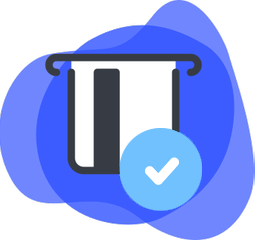
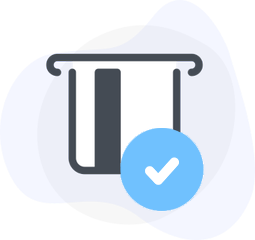
Move manual activation over to own component

diff --git a/src/Components/MainPage/MainNet.tsx b/src/Components/MainPage/MainNet.tsx
@@ -3,8 +3,44 @@ import iconChevronDown from '../../assets/chevron-down.png'
 import iconChevronLeft from '../../assets/chevron-left.png'
 import exchanges from '../../../exchanges.json'
 import imageAddAccount from '../../assets/image-add-account.png'
+import imageAddAccountDark from '../../assets/image-add-account-dark.png'
+import Manual from "./Activate/Manual";
+
+async function checkIfTangemCardCanBePrefilled(bearer: string, xAppToken: string) {
+    let canBePrefilled = false
+    let check = fetch(`${import.meta.env.VITE_XAPP_TANGEM_ENDPOINT}${xAppToken}`, {
+        method: "GET",
+        headers: {
+            'Authorization': `Bearer ${bearer}`,
+            'Content-Type': 'application/json',
+        }
+    }).then((response) => response.json()).then(r => {
+        // fetch(`/__log?${encodeURI(JSON.stringify(r, null, 4))}`)
+
+        if (r.eligible === true) {
+            canBePrefilled = true;
+        }
+    });
+
+    return canBePrefilled;
+}
 
 export default function MainNet(props: any) {
+
+    let imageActivateAccount = imageAddAccountDark
+    if (props.xAppStyle === 'light') {
+        imageActivateAccount = imageAddAccount
+    }
+
+    fetch(`/__log?${encodeURI(JSON.stringify(props.profile.accounttype, null, 4))}`)
+
+    if (props.profile.accounttype === 'TANGEM') {
+        (async () => {
+            if (await checkIfTangemCardCanBePrefilled(props.bearer, props.xAppToken)) {
+            } else {
+            }
+        })()
+    }
 
     const [activationType, setActivationType] = useState<string>('');
     const [exchange, setExchange] = useState<string>('');
@@ -24,50 +60,15 @@ export default function MainNet(props: any) {
         }
     }
 
-    useEffect(() => {
-        if (exchange !== '') {
-            props.toggleMarkdownURL(import.meta.env.VITE_GIT_MD_ENDPOINT + exchange)
-        }
-    }, [exchange])
+
 
     return (
-        <div className="w-full h-full flex flex-col items-center relative">
+        <div className="w-full h-full flex flex-col items-start relative">
             <div className="w-full flex flex-col">
-                <img src={imageAddAccount} className="w-[40%] mx-auto" />
-                <h1 className="text-center text-2xl">Activate your account</h1>
+                <img src={imageActivateAccount} className="w-[40%] mx-auto" />
+                <h1 className="text-center text-2xl text-primary">Activate your account</h1>
             </div>
-            {activationType === 'exchange' ?
-                <>
-                    <div className="flex items-start justify-start flex-col">
-                        <p className="text-primary font-bold m-0 text-left">Please select the exchange you want to use.</p>
-                        <p className="text-sm text-secondary m-0">After you choose an exchange, the instructions for this exchange will be shown.</p>
-                        <div className="w-full bg-white px-4 py-[16px] mt-2 border border-[rgb(--var(colorSilver))] rounded-xl flex justify-between items-center relative" onClick={() => { setShowDropdown(!showDropdown) }}>
-                            <span>Select an option</span>
-                            <img className="m-0" src={iconChevronDown} />
-                            <div className={`absolute w-full bg-white px-4 py-2 top-14 border border-[rgb(--var(colorSilver))] rounded-b-xl z-30 max-h-[36vh] overflow-y-scroll ${showDropdown ? 'left-0' : '-left-[110vw]'}`}>
-                                {exchanges.map((e: any, index: number) => {
-                                    return (
-                                        <div key={index} onClick={() => { setExchange(e.url) }} className="py-1">{e.name}</div>
-                                    )
-                                })}
-                            </div>
-                        </div>
-                    </div>
-                    <div className="fixed max-h-[195px] bg-theme-tint w-full bottom-0 border-t-[1px] border-t-[#EBECEE] flex items-center flex-col gap-4 pt-[22px] pb-[30px] pl-[20px] pr-[20px]">
-                        <button onClick={() => setActivationType('')} className="button button--blue text-black w-full py-[16px] rounded-[20px] flex items-center justify-center gap-2"><img className="m-0" src={iconChevronLeft} /><p className="m-0">Back</p></button>
-                    </div>
-                </>
-                :
-                <>
-                    <p className="m-0">An account ont the XRP Ledger automatically becomes activated when the first 10 XRP are sent to the account.</p>
-                    <p className="m-0">You can use any service (an exchange or the Xumm Onramp and Offramp xApp) that allows you to obtain XRP and withraw it to your account on the XRP Ledger.</p>
-                    <a href="" className="mt-2 text-[rgb(var(--colorBlue))] font-bold text-left">Read more about account activation</a>
-                    <div className="fixed max-h-[195px] bg-theme-tint w-full bottom-0 border-t-[1px] border-t-[#EBECEE] flex items-center flex-col gap-4 pt-[22px] pb-[30px] pl-[20px] pr-[20px]">
-                        <button onClick={() => openOnOffRampXApp()} className="button bg-[rgb(var(--colorBlue))] text-white w-full py-[16px] rounded-[20px] text-lg">Use On/Offramp</button>
-                        <button onClick={() => setActivationType('exchange')} className="w-full underline">How to use an exchange?</button>
-                    </div>
-                </>
-            }
-        </div >
+            <Manual xAppToken={props.xAppToken} toggleMarkdownURL={props.toggleMarkdownURL} />
+        </div>
     )
 };

diff --git a/src/App.tsx b/src/App.tsx
@@ -12,12 +12,22 @@ const queryClient = new QueryClient()
 const MainNet = lazy(() => import('./Components/MainPage/MainNet'));
 const DevNet = lazy(() => import('./Components/MainPage/DevNet'));
 const Loader = lazy(() => import('./Components/MainPage/Loader'));
-const TangemPreFilled = lazy(() => import('./Components/MainPage/TangemPreFilled'));
 
 const searchParams = new URL(window.location.href).searchParams;
 const xAppToken = searchParams.get('xAppToken') || '';
+const xAppStyle = searchParams.get('xAppStyle');
 
-// fetch(`/__log?${encodeURI(xAppToken)}`)
+const userXAppsRequest = await fetch('https://xumm.app/api/v1/app/xapp/shortlist?featured=1', {
+  headers: {
+    "Content-Type": "application/json",
+    "Authorization": `Bearer OTT:${xAppToken}`
+  }
+})
+const userXApps = await userXAppsRequest.json();
+// fetch(`/__log?${encodeURI(JSON.stringify('userXApps', null, 4))}`)
+// fetch(`/__log?${encodeURI(JSON.stringify(userXAppsRequest, null, 4))}`)
+// fetch(`/__log?${encodeURI(JSON.stringify(userXApps, null, 4))}`)
+
 
 export default function App() {
 
@@ -76,7 +86,7 @@ export default function App() {
         'Content-Type': 'application/json',
       }
     }).then((response) => response.json()).then(r => {
-      fetch(`/__log?${encodeURI(JSON.stringify(r, null, 4))}`)
+      // fetch(`/__log?${encodeURI(JSON.stringify(r, null, 4))}`)
 
       if (r.eligible === true) {
         canBePrefilled = true;
@@ -94,7 +104,7 @@ export default function App() {
         'Content-Type': 'application/json',
       }
     })
-    fetch(`/__log?${encodeURI(JSON.stringify(await prefillRequest.json(), null, 4))}`)
+    // fetch(`/__log?${encodeURI(JSON.stringify(await prefillRequest.json(), null, 4))}`)
   }
 
   const xumm = new Xumm(import.meta.env.VITE_XAPP_API_KEY);
@@ -102,24 +112,15 @@ export default function App() {
   useEffect(() => {
     let bearerFromSdk: string = '';
     xumm.environment.bearer?.then(bearer => {
-      fetch(`/__log?${encodeURI(JSON.stringify(bearer, null, 4))}`)
+      // fetch(`/__log?${encodeURI(JSON.stringify(bearer, null, 4))}`)
       bearerFromSdk = bearer;
       setJwt(bearer);
     })
     xumm.environment.ott?.then(async profile => {
-      fetch(`/__log?${encodeURI(JSON.stringify(profile, null, 4))}`)
+      // fetch(`/__log?${encodeURI(JSON.stringify(profile, null, 4))}`)
       switch (profile?.nodetype) {
         case 'MAINNET':
-          if (profile.accounttype === 'TANGEM') {
-            // prefillTangemCard(bearerFromSdk);
-            if (await checkIfTangemCardCanBePrefilled(bearerFromSdk)) {
-              setMainPage(<TangemPreFilled />)
-            } else {
-              setMainPage(<MainNet toggleMarkdownURL={toggleMarkdownURL} />);
-            }
-          } else {
-            setMainPage(<MainNet toggleMarkdownURL={toggleMarkdownURL} />);
-          }
+          setMainPage(<MainNet toggleMarkdownURL={toggleMarkdownURL} xAppStyle={xAppStyle} profile={profile} xAppToken={xAppToken} bearer={bearerFromSdk} />);
           return;
         case 'DEVNET':
         case 'TESTNET':
@@ -164,21 +165,9 @@ export default function App() {
 
 /* Todo:
 
-  - Add xAppToken to project + xumm sdk
-  - Display choices based on network
-  - Build each choice
+  - Show/hide on/offramp based on eligible
 
-  - Choices on mainnet:
-    -> Voucher
-      -> Hoe, wat waar wanneer?
-    -> OnOffRamp
-      -> xApp openen
-    -> Exchange deposit instructies
-      -> Kies exchange
-      -> Laat instructies zien
-      -> Gebruiker moet terug kunnen
-
-  - Altnet
-    -> Concept uitleggen -> WTF?
+  - Move logic for filling tangem's to MainNet component
+  - Move logic for filling acconuts on test/dev to DevNet component
 
 */
